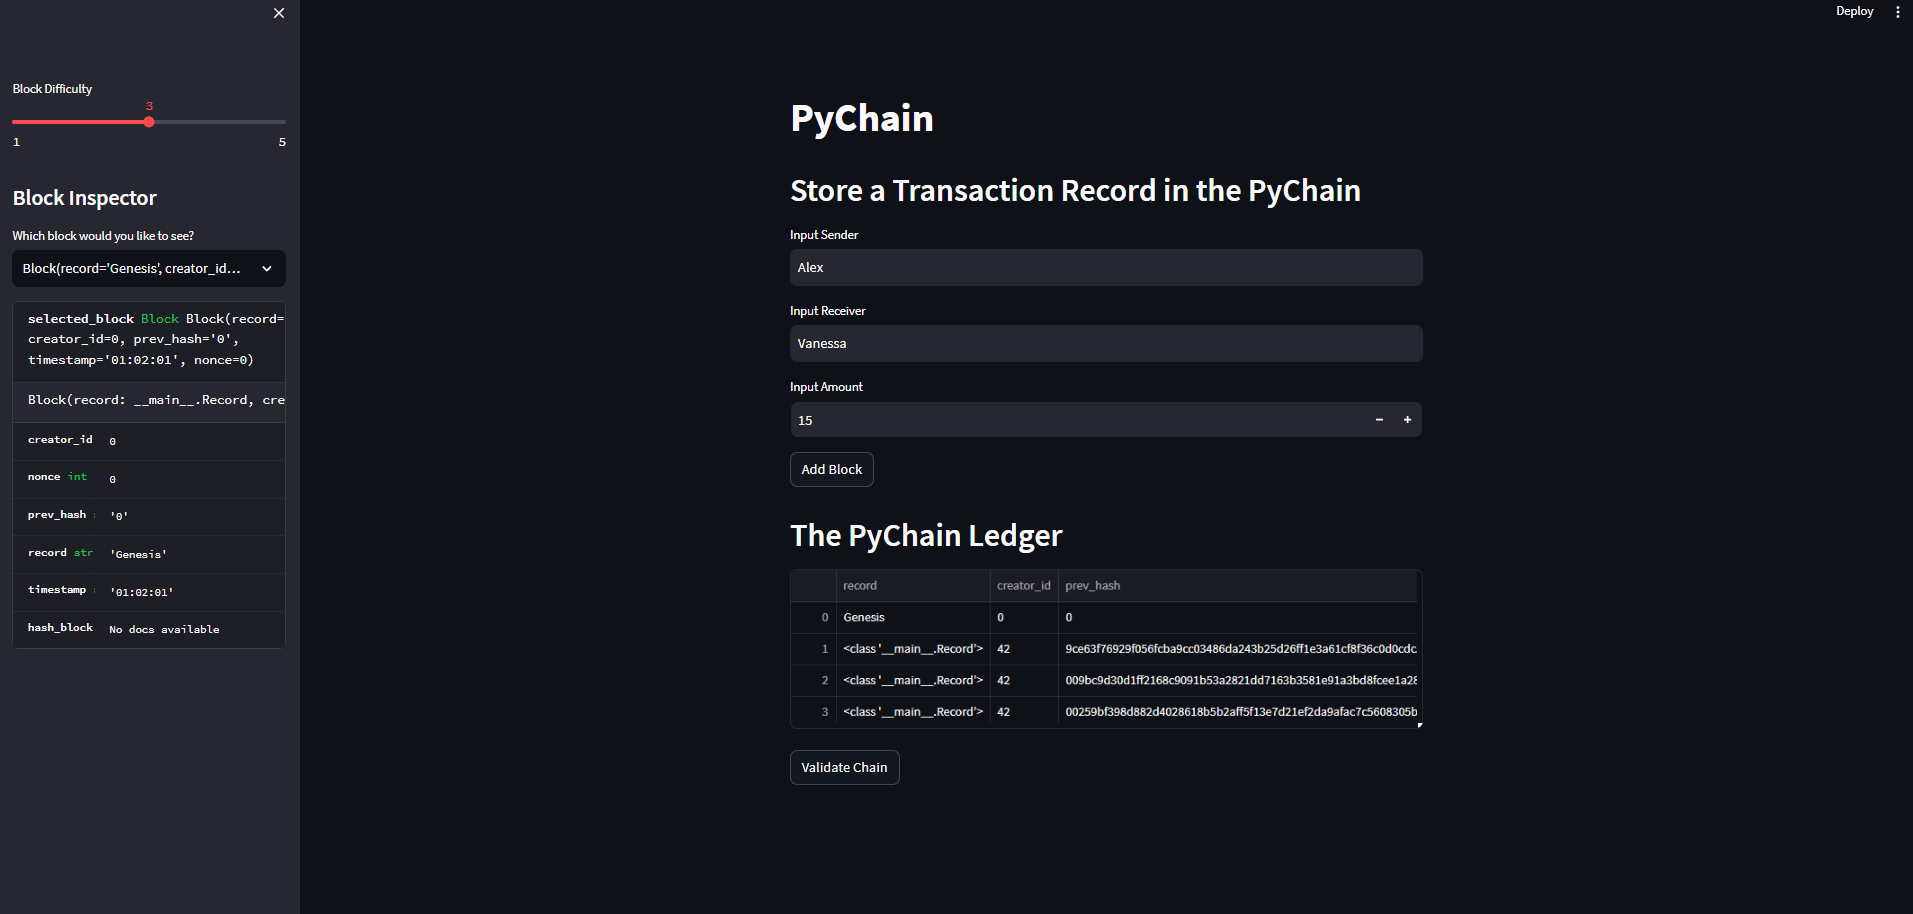
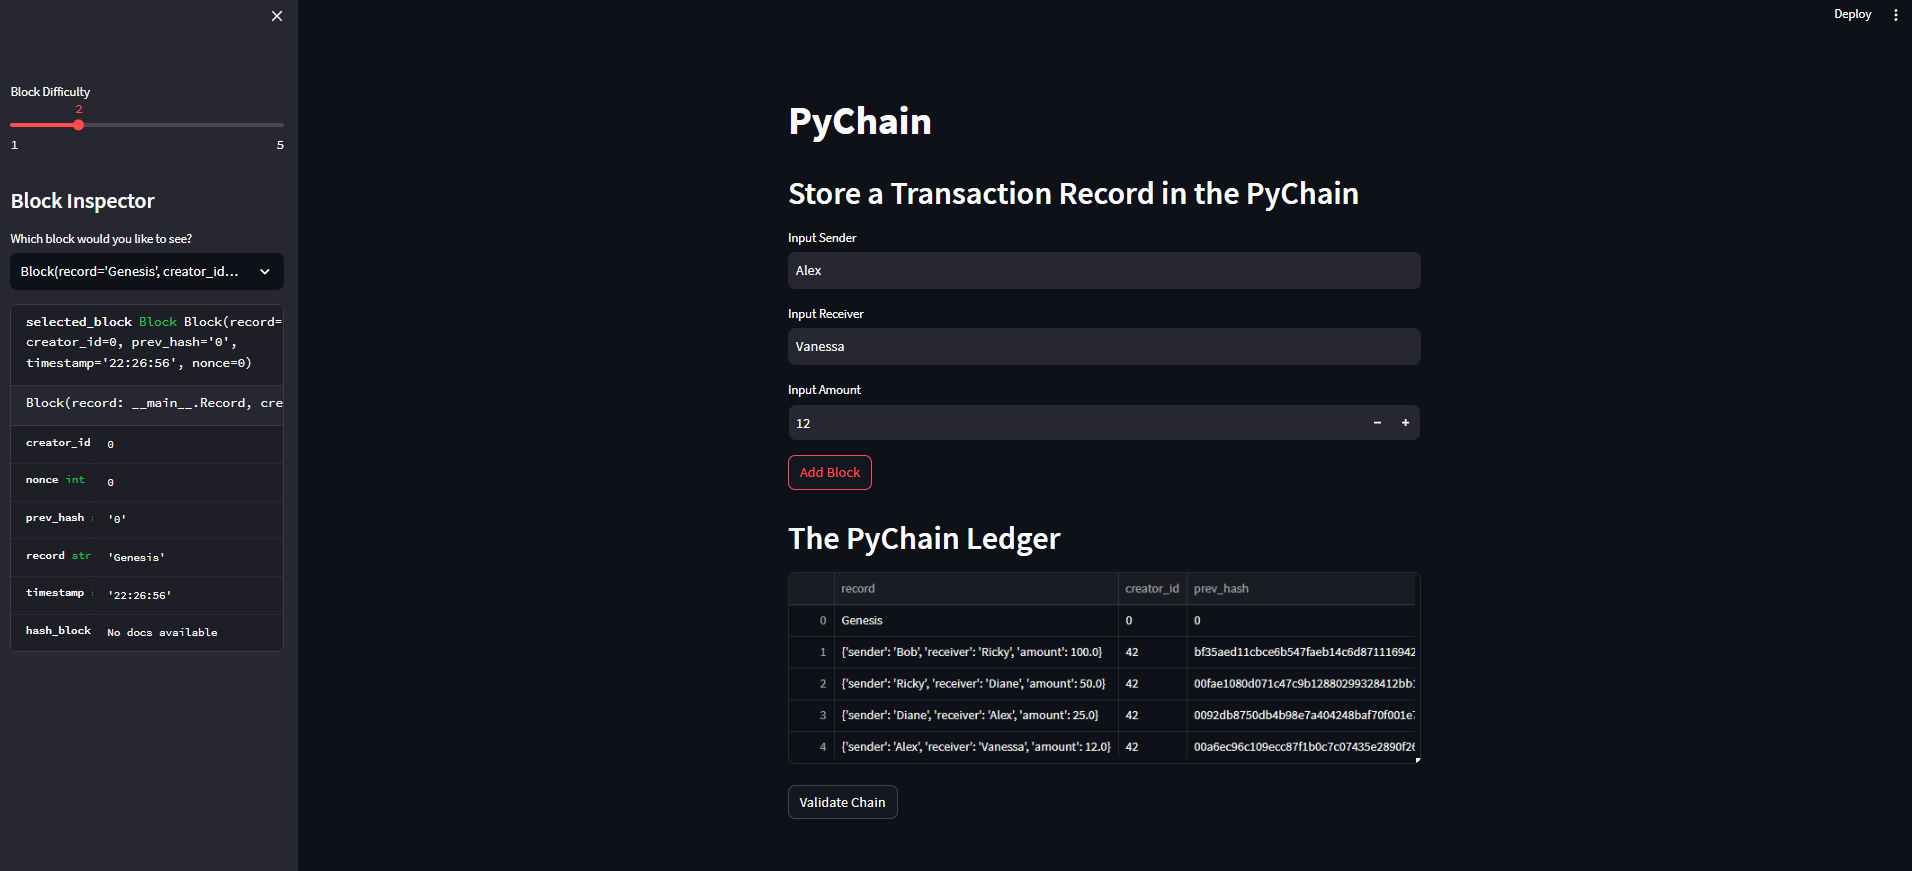
updated - final commit

diff --git a/pychain.py b/pychain.py
@@ -195,7 +195,7 @@ if st.button("Add Block"):
     # which is set equal to a `Record` that contains the `sender`, `receiver`,
     # and `amount` values
     new_block = Block(
-        record=Record,
+        record=Record(sender,receiver,amount),
         creator_id=42,
         prev_hash=prev_block_hash
     )

diff --git a/README.md b/README.md
@@ -23,3 +23,7 @@ Below are screenshots from the Streamlit application showing three added blocks.
 #
 
 ![Blockchain Screenshot 2](Images/Screenshot2.png)
+
+#
+
+![Blockchain Screenshot 3](Images/Screenshot3.png)
